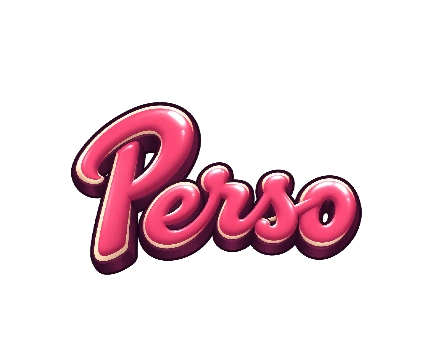
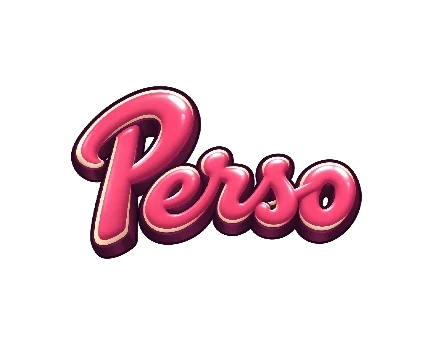
Add the yawning princess emote
The artwork comes from a green-screen recording of the Clash Royale emote,
keyed and with the in-game emote slot removed.

Bubbles now draw a closed body over their tail, so the bottom line never
opens. Emote artwork is centred horizontally: busts reach the bottom of the
bubble and are clipped at its bottom line, and Perso sits just above the
vertical centre. This replaces the per-emote offsets, the goblin's front
line, and the redrawn bottom edge. The chicken and Perso images are
recropped to be centred, and the chicken's neck and princess's body extend
below the line so no frame leaves a gap.

The picker shows the four emotes in one row.

Changed region(s): [[0.1505, 0.2326, 0.8426, 0.7849]]

diff --git a/src/client/components/bubble.tsx b/src/client/components/bubble.tsx
@@ -5,59 +5,37 @@ import { cn } from "../utils";
 export type Side = "left" | "right";
 type Tail = "bottom" | Side;
 
-/** `front` artwork overlaps the bottom edge instead of sitting behind it. */
-function bubbleArtwork(
-  children: ReactNode,
-  tail: Tail | undefined,
-  className: string,
-  front = false,
-) {
-  const bottom =
-    tail === "bottom"
-      ? "M1.25 32.5Q1.25 43.75 12.5 43.75L10 52L23 43.75H47.5Q58.75 43.75 58.75 32.5"
-      : tail
-        ? "M1.25 32.5C1.25 39 -3 45 -11 49C0 46.5 10 44.5 26 43.75H47.5Q58.75 43.75 58.75 32.5"
-        : "M1.25 32.5Q1.25 43.75 12.5 43.75H47.5Q58.75 43.75 58.75 32.5";
-  const outline = `${bottom}V16.5Q58.75 5.25 47.5 5.25H12.5Q1.25 5.25 1.25 16.5Z`;
-  const svgClass = cn(
-    "absolute inset-0 size-full overflow-visible",
-    tail === "right" && "-scale-x-100",
-  );
+const BODY =
+  "M12.5 5.25H47.5Q58.75 5.25 58.75 16.5V32.5Q58.75 43.75 47.5 43.75H12.5Q1.25 43.75 1.25 32.5V16.5Q1.25 5.25 12.5 5.25Z";
+const BOTTOM_TAIL = "M13.6 40L10 52L28.9 40Z";
+const SIDE_TAIL = "M1.25 32.5C1.25 39 -3 45 -11 49C0 46.5 10 44.5 26 43.75L26 36L8 32.5Z";
+
+function bubbleArtwork(children: ReactNode, tail: Tail | undefined, className: string) {
+  const shapes = tail ? [tail === "bottom" ? BOTTOM_TAIL : SIDE_TAIL, BODY] : [BODY];
   return (
     <span className={cn("emote-artwork relative block h-[45px] w-[60px] shrink-0", className)}>
-      <svg className={svgClass} viewBox="0 0 60 45" aria-hidden="true">
-        <path
-          d={outline}
-          className="fill-foreground stroke-foreground"
-          strokeWidth="2.5"
-          strokeLinejoin="round"
-          transform="translate(0 2.5)"
-        />
-        <path
-          d={outline}
-          className="fill-card stroke-foreground"
-          strokeWidth="2.5"
-          strokeLinejoin="round"
-        />
-        {front &&
-          tail === "bottom" && (
-            // Artwork resting on the edge needs a line under it where the tail opens.
-            <path d="M12.5 43.75H23" className="stroke-foreground" strokeWidth="2.5" />
-          )}
+      <svg
+        className={cn(
+          "absolute inset-0 size-full overflow-visible stroke-foreground",
+          tail === "right" && "-scale-x-100",
+        )}
+        viewBox="0 0 60 45"
+        strokeWidth="2.5"
+        strokeLinejoin="round"
+        aria-hidden="true"
+      >
+        <g className="fill-foreground" transform="translate(0 2.5)">
+          {shapes.map((d) => (
+            <path key={d} d={d} />
+          ))}
+        </g>
+        <g className="fill-card">
+          {shapes.map((d) => (
+            <path key={d} d={d} />
+          ))}
+        </g>
       </svg>
       {children}
-      {tail &&
-        !front && (
-          // The tailed bottom edge is redrawn over the artwork so the emote sits inside the bubble.
-          <svg className={svgClass} viewBox="0 0 60 45" fill="none" aria-hidden="true">
-            <path
-              d={bottom}
-              className="stroke-foreground"
-              strokeWidth="2.5"
-              strokeLinejoin="round"
-            />
-          </svg>
-        )}
     </span>
   );
 }
@@ -66,15 +44,7 @@ export function MenuBubble({ children }: { children: ReactNode }) {
   return bubbleArtwork(children, undefined, "origin-bottom scale-90");
 }
 
-export function Bubble({
-  children,
-  label,
-  front,
-}: {
-  children: ReactNode;
-  label: string;
-  front?: boolean;
-}) {
+export function Bubble({ children, label }: { children: ReactNode; label: string }) {
   return (
     <span
       role="status"
@@ -82,7 +52,7 @@ export function Bubble({
       className="seat-bubble pointer-events-none block origin-bottom shrink-0 overflow-visible pb-2.5 animate-[emote-bubble_ease-out_both]"
       style={{ animationDuration: `${EMOTE_DURATION_MS}ms` }}
     >
-      {bubbleArtwork(children, "bottom", "origin-bottom scale-90", front)}
+      {bubbleArtwork(children, "bottom", "origin-bottom scale-90")}
     </span>
   );
 }
@@ -92,12 +62,10 @@ export function SideBubble({
   label,
   side,
   top,
-  front,
 }: {
   children: ReactNode;
   label: string;
   side: Side;
-  front?: boolean;
   /** Resting height as a percentage of the rail. */
   top: number;
 }) {
@@ -113,12 +81,7 @@ export function SideBubble({
       )}
       style={{ top: `${top}%`, animationDuration: `${EMOTE_DURATION_MS}ms` }}
     >
-      {bubbleArtwork(
-        children,
-        side,
-        "absolute bottom-0 left-0 origin-bottom-left scale-[.6]",
-        front,
-      )}
+      {bubbleArtwork(children, side, "absolute bottom-0 left-0 origin-bottom-left scale-[.6]")}
     </span>
   );
 }

diff --git a/src/client/components/emotes.tsx b/src/client/components/emotes.tsx
@@ -19,32 +19,25 @@ export function useRecent(sentAt: number | undefined, serverTime: number, durati
   return sentAt !== undefined && expired !== sentAt && remaining > 0;
 }
 
-/** Placement of each emote's artwork inside the 60x45 bubble. */
-const EMOTES: Record<Emote["id"], { label: string; box: string; clip?: string; front?: boolean }> =
-  {
-    chicken: {
-      label: "Send chicken emote",
-      clip: "[clip-path:inset(-30px_0_2.5px_0)]",
-      box: "-bottom-[7.5px] left-1/2 h-[84.375px] w-[62.5px] -translate-x-[60%]",
-    },
-    perso: {
-      label: "Send Perso emote",
-      box: "-left-6 -top-[32.55px] h-[90px] w-[108px]",
-    },
-    goblin: {
-      label: "Send goblin emote",
-      clip: "[clip-path:inset(-30px_-12px_2.5px_-12px)]",
-      box: "-bottom-[1.5px] left-1/2 h-[53.7px] w-[76px] -translate-x-1/2",
-      front: true,
-    },
-  };
+const EMOTES: Record<Emote["id"], { label: string; size: string; bust?: boolean }> = {
+  chicken: { label: "Send chicken emote", size: "h-[78.5px] w-[51.5px]", bust: true },
+  perso: { label: "Send Perso emote", size: "h-[86px] w-[108px]" },
+  goblin: { label: "Send goblin emote", size: "h-[53.7px] w-[76px]", bust: true },
+  princess: { label: "Send princess emote", size: "h-[58.4px] w-[45.9px]", bust: true },
+};
 
 function EmoteArt({ id, animated = false }: { id: Emote["id"]; animated?: boolean }) {
-  const { box, clip } = EMOTES[id];
+  const { size, bust } = EMOTES[id];
   const still = `/emotes/${id}-still.webp`;
   return (
-    <span className={cn("absolute inset-0", clip)}>
-      <span className={cn("absolute", box)}>
+    <span className={cn("absolute inset-0", bust && "[clip-path:inset(-40px_-40px_2.5px)]")}>
+      <span
+        className={cn(
+          "absolute left-1/2 -translate-x-1/2",
+          bust ? "bottom-0" : "top-[21.5px] -translate-y-1/2",
+          size,
+        )}
+      >
         {animated ? (
           <AnimatedWebp src={`/emotes/${id}.webp`} poster={still} />
         ) : (
@@ -67,11 +60,7 @@ export function EmoteBubble({
   const visible = useRecent(emote?.sentAt, serverTime, EMOTE_DURATION_MS);
   if (!emote || !visible) return null;
   return (
-    <Bubble
-      key={emote.sentAt}
-      label={`${name} sent the ${emote.id} emote`}
-      front={EMOTES[emote.id].front}
-    >
+    <Bubble key={emote.sentAt} label={`${name} sent the ${emote.id} emote`}>
       <EmoteArt id={emote.id} animated />
     </Bubble>
   );
@@ -89,11 +78,7 @@ function SideReaction({
   const visible = useRecent(emote.sentAt, serverTime, EMOTE_DURATION_MS);
   if (!visible) return null;
   return (
-    <SideBubble
-      label={`${name} sent the ${emote.id} emote`}
-      front={EMOTES[emote.id].front}
-      {...placement(emote)}
-    >
+    <SideBubble label={`${name} sent the ${emote.id} emote`} {...placement(emote)}>
       <EmoteArt id={emote.id} animated />
     </SideBubble>
   );
@@ -177,7 +162,7 @@ export function EmotePicker({
           collisionPadding={12}
           aria-label="Emotes"
           onOpenAutoFocus={(event) => event.preventDefault()}
-          className="z-50 grid w-auto grid-cols-3 gap-4 bg-transparent p-2"
+          className="z-50 grid w-auto grid-cols-4 gap-3 bg-transparent p-2"
         >
           {EMOTE_IDS.map((id) => (
             <button

diff --git a/src/shared/emotes.ts b/src/shared/emotes.ts
@@ -4,7 +4,7 @@ import type { Game } from "./game";
 
 export const EMOTE_DURATION_MS = 1560;
 export const EMOTE_COOLDOWN_MS = 1500;
-export const EMOTE_IDS = ["chicken", "perso", "goblin"] as const;
+export const EMOTE_IDS = ["chicken", "perso", "goblin", "princess"] as const;
 export type Emote = { id: (typeof EMOTE_IDS)[number]; sentAt: number };
 
 export function sendEmote(game: Game, id: string, emote: Emote["id"], now: number) {

diff --git a/tests/unit/emotes.test.ts b/tests/unit/emotes.test.ts
@@ -2,7 +2,7 @@ import { expect, test } from "vitest";
 import { sendEmote } from "../../src/shared/emotes";
 import { gameFixture } from "./helpers";
 
-test.each(["chicken", "perso", "goblin"] as const)(
+test.each(["chicken", "perso", "goblin", "princess"] as const)(
   "%s preserves play state and enforces a per-player cooldown",
   (id) => {
     const game = gameFixture();
